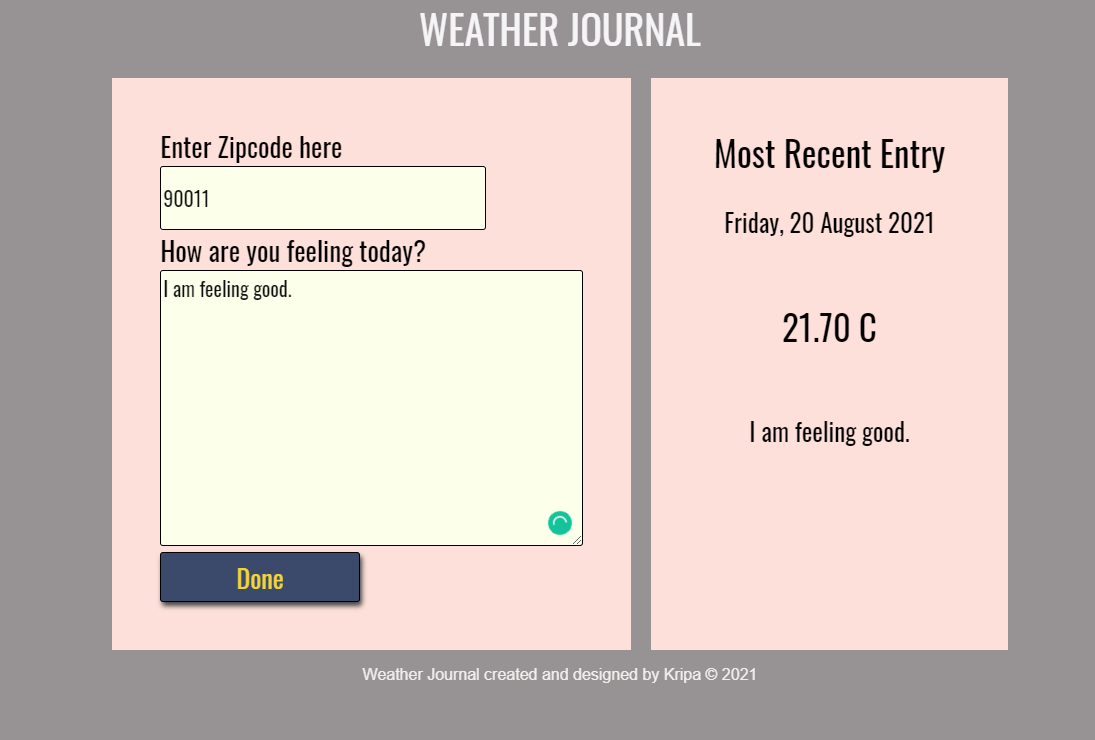
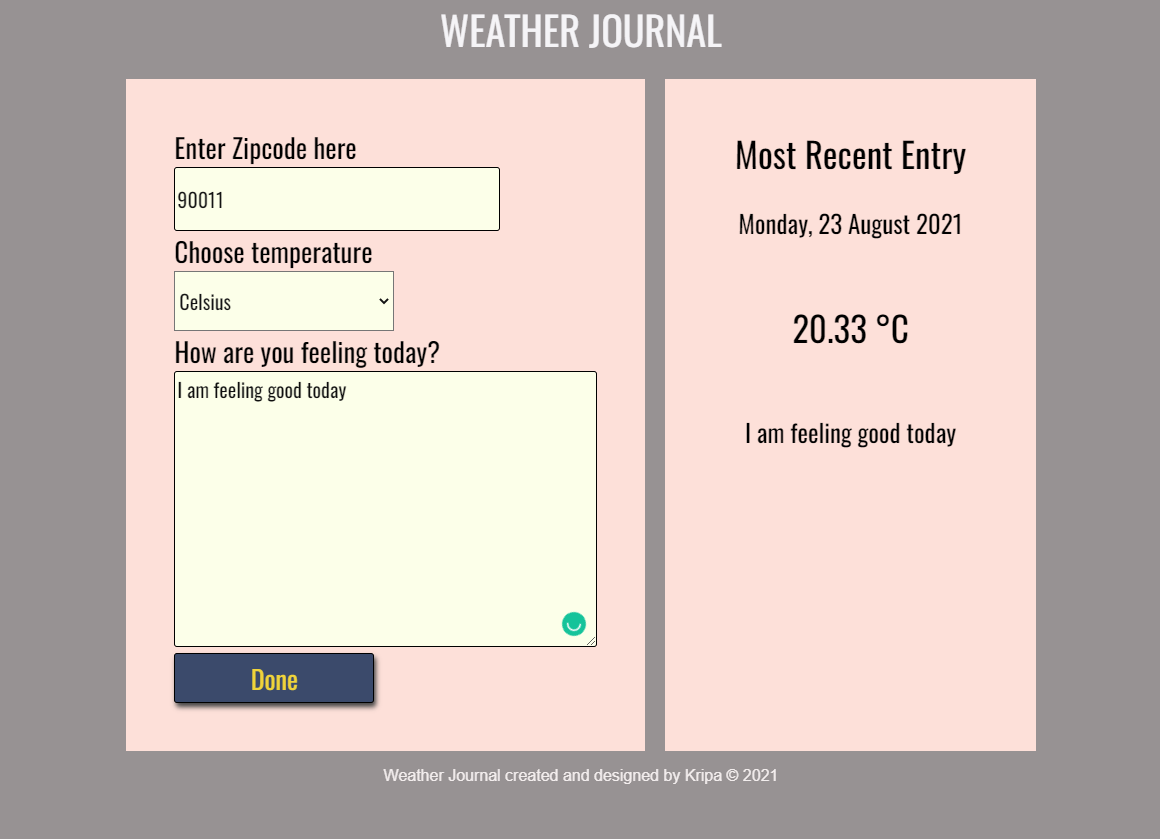
Temperature unit C/K

diff --git a/Weather_app/website/app.js b/Weather_app/website/app.js
@@ -17,7 +17,7 @@ function performAction(e) {
   getTemperature(baseURL, zipCode, key).then(function (data) {
     // Add data to POST request
     postData("http://localhost:8000/addWeatherData", {
-      temperature: tempKelvinToCelsius(data.main.temp),
+      temperature: data.main.temp,
       date: newDate,
       user_response: feelings,
     })
@@ -30,7 +30,16 @@ function performAction(e) {
 
 // Async GET
 const getTemperature = async (baseURL, code, key) => {
-  const response = await fetch(baseURL + code + ",us" + "&APPID=" + key);
+  let dropdownSelection = document.getElementById("dropdownContent").value;
+  let urlUnitComponent = "";
+  if (dropdownSelection === "Celsius") {
+    urlUnitComponent = "&units=metric";
+  } else if (dropdownSelection === "Kelvin") {
+    urlUnitComponent = "&units=imperial";
+  }
+  const response = await fetch(
+    baseURL + code + ",us" + "&APPID=" + key + urlUnitComponent
+  );
   try {
     const data = await response.json();
     return data;
@@ -50,8 +59,8 @@ const postData = async (url = "", data = {}) => {
     body: JSON.stringify(data),
   });
   try {
-    // console.log('Post data function?');
     let newData = await postRequest.json();
+    console.log(newData);
     return newData;
   } catch (error) {
     console.log("Error", error);
@@ -63,19 +72,18 @@ const updateUI = async () => {
   const serverResponse = await fetch("http://localhost:8000/all");
   try {
     const allData = await serverResponse.json();
+
+    let dropdownSelection = document.getElementById("dropdownContent").value;
+    let tempUnit = "";
+    if (dropdownSelection === "Celsius") {
+      tempUnit = " &deg;C";
+    } else if (dropdownSelection === "Kelvin") {
+      tempUnit = " &deg;K";
+    }
     document.getElementById("date").innerHTML = allData.date;
-    document.getElementById("temp").innerHTML = allData.temperature;
+    document.getElementById("temp").innerHTML = allData.temperature + tempUnit;
     document.getElementById("content").innerHTML = allData.user_response;
   } catch (error) {
     console.log("error", error);
   }
 };
-
-// helper function to convert temp from Kelvin to Celsius
-function tempKelvinToCelsius(K) {
-  if (K < 0) {
-    return "below absolute zero (0 K)";
-  } else {
-    return (K - 273.15).toFixed(2) + " C";
-  }
-}

diff --git a/Weather_app/website/index.html b/Weather_app/website/index.html
@@ -10,7 +10,6 @@
   </head>
 
   <body>
-
     <div id="app">
       <header>
         <div class="holder headline">WEATHER JOURNAL</div>
@@ -19,6 +18,13 @@
         <div class="holder zip">
           <label for="zip">Enter Zipcode here</label>
           <input type="text" id="zip" placeholder="Enter zipcode here. eg: 90011 ">
+        </div>
+        <div class="dropdown">
+          <label for="temp">Choose temperature</label>
+          <select name="temp" id="dropdownContent">
+            <option value="Celsius">Celsius</option>
+            <option value="Fahrenheit">Kelvin</option>
+          </select>
         </div>
         <div class="holder feel">
           <label for="feelings">How are you feeling today?</label>

diff --git a/Weather_app/website/style.css b/Weather_app/website/style.css
@@ -69,6 +69,16 @@ label {
   color: black;
 }
 
+#dropdownContent {
+  display: block;
+  height: 60px;
+  width: 220px;
+  background: #fcffe9;
+  color: #141414;
+  font-size: 20px;
+  font-family: "Oswald", sans-serif;
+}
+
 input {
   display: block;
   height: 60px;
